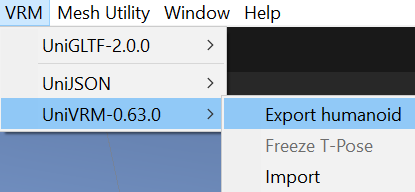
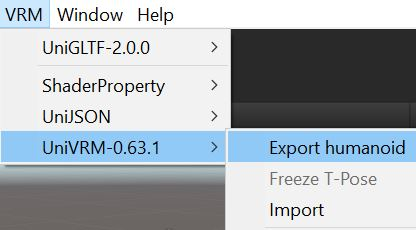
updated upm

diff --git a/content/en/docs/univrm/install/univrm_upm.md b/content/en/docs/univrm/install/univrm_upm.md
@@ -52,12 +52,11 @@ Select `add package from git URL` to import the target package specified by its 
 
 Whenever a new UniVRM version comes out, we will post git urls associated with this release. 
 
-For example, the git urls of [v0.63.0](https://github.com/vrm-c/UniVRM/releases/tag/v0.63.0) are:
+For example, the git urls of [v0.63.1](https://github.com/vrm-c/UniVRM/releases/tag/v0.63.1) are:
 
-* `https://github.com/vrm-c/UniVRM.git?path=/Assets/VRMShaders#v0.63.0`
-* `https://github.com/vrm-c/UniVRM.git?path=/Assets/UniGLTF#v0.63.0` => depends on VRMShaders
-* `https://github.com/vrm-c/UniVRM.git?path=/Assets/MeshUtility#v0.63.0` => depends on UniGLTF
-* `https://github.com/vrm-c/UniVRM.git?path=/Assets/VRM#v0.63.0` => depends on UniGLTF, VRMShaders and MeshUtility
+* `https://github.com/vrm-c/UniVRM.git?path=/Assets/VRMShaders#v0.63.1`
+* `https://github.com/vrm-c/UniVRM.git?path=/Assets/UniGLTF#v0.63.1` => depends on VRMShaders
+* `https://github.com/vrm-c/UniVRM.git?path=/Assets/VRM#v0.63.0` => depends on UniGLTF, VRMShaders
 
 Since there is no function that can automatically download the dependencies between packages, please add above git urls in order.
 
@@ -71,16 +70,15 @@ By changing the version number, you can switch to different version based on you
 #### Add dependencies in Packages/manifest.json
 
 An alternative way is to add necessary dependencies right in Packages/manifest.json. 
-Open manifest.json with text/code editor and paste the following contents (example of [v0.63.0](https://github.com/vrm-c/UniVRM/releases/tag/v0.63.0)):
+Open manifest.json with text/code editor and paste the following contents (example of [v0.63.1](https://github.com/vrm-c/UniVRM/releases/tag/v0.63.1)):
 
 ```json
 {
   "dependencies": {
     // ...
-    "com.vrmc.vrmshaders": "https://github.com/vrm-c/UniVRM.git?path=/Assets/VRMShaders#v0.63.0",
-    "com.vrmc.unigltf": "https://github.com/vrm-c/UniVRM.git?path=/Assets/UniGLTF#v0.63.0",
-    "com.vrmc.meshutility": "https://github.com/vrm-c/UniVRM.git?path=/Assets/MeshUtility#v0.63.0",
-    "com.vrmc.univrm": "https://github.com/vrm-c/UniVRM.git?path=/Assets/VRM#v0.63.0",
+    "com.vrmc.vrmshaders": "https://github.com/vrm-c/UniVRM.git?path=/Assets/VRMShaders#v0.63.1",
+    "com.vrmc.unigltf": "https://github.com/vrm-c/UniVRM.git?path=/Assets/UniGLTF#v0.63.1",
+    "com.vrmc.univrm": "https://github.com/vrm-c/UniVRM.git?path=/Assets/VRM#v0.63.1",
     // ...
 }
 ```
@@ -95,10 +93,9 @@ Example:
 {
   "dependencies": {
     // ...
-    "com.vrmc.vrmshaders": "https://github.com/vrm-c/UniVRM.git?path=/Assets/VRMShaders#54645cfc57f31e6a9b406b9fda2094e4b2a51a1f",
-    "com.vrmc.unigltf": "https://github.com/vrm-c/UniVRM.git?path=/Assets/UniGLTF#54645cfc57f31e6a9b406b9fda2094e4b2a51a1f",
-    "com.vrmc.meshutility": "https://github.com/vrm-c/UniVRM.git?path=/Assets/MeshUtility#54645cfc57f31e6a9b406b9fda2094e4b2a51a1f",
-    "com.vrmc.univrm": "https://github.com/vrm-c/UniVRM.git?path=/Assets/VRM#54645cfc57f31e6a9b406b9fda2094e4b2a51a1f",
+    "com.vrmc.vrmshaders": "https://github.com/vrm-c/UniVRM.git?path=/Assets/VRMShaders#d8d9ff481f426150273e123d152f12183756267f",
+    "com.vrmc.unigltf": "https://github.com/vrm-c/UniVRM.git?path=/Assets/UniGLTF#d8d9ff481f426150273e123d152f12183756267f",
+    "com.vrmc.univrm": "https://github.com/vrm-c/UniVRM.git?path=/Assets/VRM#d8d9ff481f426150273e123d152f12183756267f",
     // ...
 }
 ```

diff --git a/content/en/docs/univrm/import/univrm_import.md b/content/en/docs/univrm/import/univrm_import.md
@@ -15,7 +15,7 @@ Create a new project at the start page (``New -> Create project``).
 ### 2. Import UniVRM package into the created project
 {{< img src="images/vrm/package_import.png" width="400" alt="package_import" >}}
 
-Download the latest unitypackage (UniVRM-0.XX) from [UniVRM/releases](https://github.com/vrm-c/UniVRM/releases) and import it into the current project (``Assets -> Import Package -> Custom Package``). The imported files will be in ``../Assets/VRM``, ``../Assets/UniGLTF``, ``../Assets/VRMShaders`` and ``../Assets/MeshUtility``. **To replace UniVRM with a newer version, it is recommended to delete the existing VRM, UniGLTF, VRMShaders and MeshUtility folders (if any) before package import**.
+Download the latest unitypackage (UniVRM-0.XX) from [UniVRM/releases](https://github.com/vrm-c/UniVRM/releases) and import it into the current project (``Assets -> Import Package -> Custom Package``). The imported files will be in ``../Assets/VRM``, ``../Assets/UniGLTF`` and ``../Assets/VRMShaders``. **To replace UniVRM with a newer version, it is recommended to delete the existing VRM, UniGLTF, VRMShaders and MeshUtility folders (if any) before package import**.
 
 ### 3. Import VRM file into Unity 
 {{< img src="images/vrm/vrm_prefab_en.png" >}}

diff --git a/content/ja/docs/univrm/import/univrm_import.md b/content/ja/docs/univrm/import/univrm_import.md
@@ -15,7 +15,7 @@ Unityを起動し、プロジェクトを新規作成します。New→Create pr
 ### 2.UnityにUniVRMをインストール
 {{< img src="images/vrm/package_import.png" width="400" alt="package_import" >}}
 
-[UniVRM/releases](https://github.com/vrm-c/UniVRM/releases)から最新のunitypackageをダウンロードし、`Assets/VRM`、`Assets/UniGLTF`、`Assets/VRMShaders`及び`Assets/MeshUtility`にインストールします。
+[UniVRM/releases](https://github.com/vrm-c/UniVRM/releases)から最新のunitypackageをダウンロードし、`Assets/VRM`、`Assets/UniGLTF`及び`Assets/VRMShaders`にインストールします。
 **既存のUniVRMが存在している場合、あらかじめVRM、UniGLTF、VRMShaders、そしてMeshUtilityフォルダを削除することを推奨**しています。
 UniVRM-XXX.unitypackageファイルをUnityにインポートしてください。
 

diff --git a/content/en/docs/vrm/how_to_make_vrm/setup_unity.md b/content/en/docs/vrm/how_to_make_vrm/setup_unity.md
@@ -35,7 +35,7 @@ For Unity Hub, click ``Projects -> New -> 3D template -> CREATE``:
 
 ## Import UniVRM package into the created project
 
-Import the downloaded `UniVRM-0.XX.0_YYYY.unitypackage` into the current project (``Assets -> Import Package -> Custom Package``). The imported files will be in the folders ``../Assets/VRM``, ``../Assets/UniGLTF``, ``../Assets/VRMShaders`` and ``../Assets/MeshUtility``.
+Import the downloaded `UniVRM-0.XX.0_YYYY.unitypackage` into the current project (``Assets -> Import Package -> Custom Package``). The imported files will be in the folders ``../Assets/VRM``, ``../Assets/UniGLTF`` and ``../Assets/VRMShaders``.
 
 {{< img src="images/vrm/package_import.png" width="400" alt="package_import" >}}
 

diff --git a/content/en/docs/univrm/install/univrm_install.md b/content/en/docs/univrm/install/univrm_install.md
@@ -40,7 +40,7 @@ If old UniVRM version exists, please delete `Assets/VRM`, `Assets/UniGLTF` (if e
 
 Go to `Assets` - `Import Package` - `Custom Package` and select `UniVRM-0.XX.X_XXXX.unitypackage`.
 
-Four folders: `Assets/VRM`, `Assets/UniGLTF`. `Assets/VRMShaders` and `Assets/MeshUtility` will be imported into the Unity project.
+Three folders: `Assets/VRM`, `Assets/UniGLTF` and `Assets/VRMShaders` will be imported into the Unity project.
 
 |{{< img src="images/vrm/package_import.png" width="350" alt="package_import" >}}|
 |-----|

diff --git a/content/ja/docs/univrm/install/univrm_install.md b/content/ja/docs/univrm/install/univrm_install.md
@@ -43,7 +43,7 @@ https://github.com/vrm-c/UniVRM/releases
 
 `Assets` - `Import Package` - `Custom Package...` で `UniVRM-0.XX.X_XXXX.unitypackage` を選択します。
 
-`Assets/VRM`、`Assets/UniGLTF`、`Assets/VRMShaders`お及び`Assets/MeshUtility` の４つのフォルダに import されます。
+`Assets/VRM`、`Assets/UniGLTF`お及び`Assets/VRMShaders` の３つのフォルダに import されます。
 
 |{{< img src="images/vrm/package_import.png" width="350" alt="package_import" >}}|
 |-----|

diff --git a/content/en/docs/univrm/export/vrm_size.md b/content/en/docs/univrm/export/vrm_size.md
@@ -141,7 +141,7 @@ Setting up one BlendShape only needs: `10000 x (12 + 12) => 0.24MB`
 
 > The runtime performance will benefit to this mesh splitting as well. The trade-off is that Draw call is likely increasing since the number of rendering meshes increases
 
-https://github.com/vrm-c/UniVRM/tree/master/Assets/MeshUtility
+https://github.com/vrm-c/UniVRM/tree/master/Assets/UniGLTF/MeshUtility
 
 
 ## Summary

diff --git a/content/ja/docs/univrm/export/vrm_size.md b/content/ja/docs/univrm/export/vrm_size.md
@@ -158,7 +158,7 @@ BlendShapeのNormal, Tangent をエクスポートしない。
 
 > ランタイムにも良い可能性があるが、ドローコールは増えるかもしれないのでトレードオフがある
 
-https://github.com/vrm-c/UniVRM/tree/master/Assets/MeshUtility
+https://github.com/vrm-c/UniVRM/tree/master/Assets/UniGLTF/MeshUtility
 
 > TODO: 導入方法の説明
 
